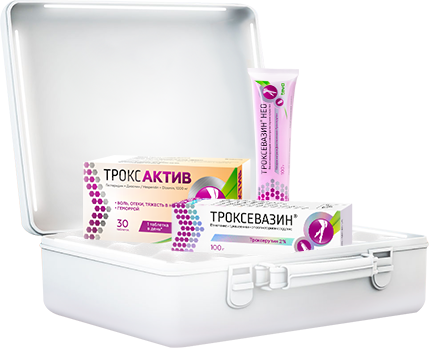
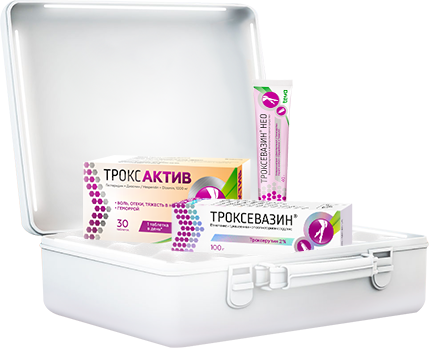
fix: pack edits #3

Changed region(s): [[0.5758, 0.2011, 0.697, 0.5747]]

diff --git a/nuxt/pages/case-varikoz-lite.vue b/nuxt/pages/case-varikoz-lite.vue
@@ -98,7 +98,7 @@
             <img src="/img/case/stats.png" alt="" loading="lazy"/>
           </div>
           <div class="stats__right">
-            <h2 class="title-h1">Согласно исследованию,<sup>6</sup> 92% пациентов начинают лечение симптомов варикоза<sup>*</sup> с помощью наружных средств</h2>
+            <h2 class="title-h1">Согласно исследованию<sup>6</sup>, 92% пациентов начинают лечение симптомов варикоза<sup>*</sup> с помощью наружных средств</h2>
             <p>Бороться с варикозом помогут средства бренда Троксевазин<sup>®</sup>, который на протяжении более 40 лет<sup>3</sup> помогает россиянам справляться с варикозом<sup>*</sup>.</p>
           </div>
         </div>
@@ -123,7 +123,7 @@
             </div>
             <div class="others__item">
               <h2 class="title-h1">Троксевазин<sup>®</sup> <br> НЕО гель</h2>
-              <img src="/img/product/other-gel-1-40.png" alt="" loading="lazy"/>
+              <img src="/img/product/other-gel-neo.png" alt="" loading="lazy"/>
               <p><strong class="others-violet">Усиленная<sup>**</sup> формула с тройным действием<sup>***</sup> против симптомов варикоза<sup>*</sup></strong><br> Способствует укреплению вен, уменьшению воспаления и снятию отека при варикозе<sup>5</sup>
               </p>
               <div class="others__btns">
@@ -159,7 +159,7 @@
               <swiper-slide>
                 <div class="others__item">
                   <h2 class="title-h1">Троксевазин<sup>®</sup> <br> НЕО гель</h2>
-                  <img src="/img/product/other-gel-1-40.png" alt="" loading="lazy"/>
+                  <img src="/img/product/other-gel-neo.png" alt="" loading="lazy"/>
                   <p><strong class="others-violet">Усиленная<sup>**</sup> формула с тройным действием<sup>***</sup> против симптомов варикоза<sup>*</sup></strong><br> Способствует укреплению вен, уменьшению воспаления и снятию отека при варикозе<sup>5</sup>
                   </p>
                   <div class="others__btns">

diff --git a/nuxt/pages/troxactive.vue b/nuxt/pages/troxactive.vue
@@ -266,7 +266,7 @@
           <h2 class="title-h1" style="max-width: 928px">Линейка Троксевазин<sup>®</sup> – комплексный подход для воздействия на симптомы варикоза<sup>*</sup> не только изнутри, но и снаружи</h2>
           <div class="others__list">
             <div class="others__item swiper-gel-1">
-              <img src="/img/product/other-gel-1-40.png" alt="" loading="lazy"/>
+              <img src="/img/product/other-gel-neo.png" alt="" loading="lazy"/>
               <p>
                 <strong class="others-violet">Узнайте больше <br> о Троксевазин<sup>®</sup> Нео —</strong><br> гель с усиленной<sup>***</sup> трехкомпонентной формулой<sup>6</sup>
               </p>
@@ -294,7 +294,7 @@
             >
               <swiper-slide>
                 <div class="others__item">
-                  <img src="/img/product/other-gel-1-40.png" alt="" loading="lazy"/>
+                  <img src="/img/product/other-gel-neo.png" alt="" loading="lazy"/>
                   <p>
                     <strong class="others-violet">Узнайте больше <br> о Троксевазин<sup>®</sup> Нео —</strong><br> гель с усиленной<sup>***</sup> трехкомпонентной формулой<sup>6</sup>
                   </p>

diff --git a/nuxt/pages/case-varikoz-hard.vue b/nuxt/pages/case-varikoz-hard.vue
@@ -119,7 +119,7 @@
           <div class="others__list">
             <div class="others__item swiper-gel-1">
               <h2 class="title-h1">Троксевазин<sup>®</sup> <br> НЕО гель</h2>
-              <img src="/img/product/other-gel-1-40.png" alt="" loading="lazy"/>
+              <img src="/img/product/other-gel-neo.png" alt="" loading="lazy"/>
               <p><strong class="others-violet">Инновация в линейке Троксевазин<sup>®</sup> — </strong>
                 Троксевазин<sup>®</sup> Нео с усиленной<sup>**</sup> трехкомпонентной формулой<sup>2</sup></p>
               <div class="others__btns">
@@ -153,7 +153,7 @@
               <swiper-slide>
                 <div class="others__item">
                   <h2 class="title-h1">Троксевазин<sup>®</sup> <br> НЕО гель</h2>
-                  <img src="/img/product/other-gel-1-40.png" alt="" loading="lazy"/>
+                  <img src="/img/product/other-gel-neo.png" alt="" loading="lazy"/>
                   <p><strong class="others-violet">Инновация в линейке Троксевазин<sup>®</sup> — </strong>Троксевазин<sup>®</sup> Нео с усиленной<sup>**</sup> трехкомпонентной формулой<sup>2</sup>
                   </p>
                   <div class="others__btns">

diff --git a/nuxt/pages/case-varikoz-middle.vue b/nuxt/pages/case-varikoz-middle.vue
@@ -118,7 +118,7 @@
           <div class="others__list">
             <div class="others__item">
               <h2 class="title-h1">Троксевазин<sup>®</sup> <br> НЕО гель</h2>
-              <img src="/img/product/other-gel-1-40.png" alt="" loading="lazy"/>
+              <img src="/img/product/other-gel-neo.png" alt="" loading="lazy"/>
               <p><strong class="others-violet">Инновация в линейке Троксевазин<sup>®</sup> — </strong>Троксевазин<sup>®</sup> Нео с усиленной<sup>**</sup> трехкомпонентной формулой<sup>3</sup>
               </p>
               <div class="others__btns">
@@ -152,7 +152,7 @@
               <swiper-slide>
                 <div class="others__item">
                   <h2 class="title-h1">Троксевазин<sup>®</sup> <br> НЕО гель</h2>
-                  <img src="/img/product/other-gel-1-40.png" alt="" loading="lazy"/>
+                  <img src="/img/product/other-gel-neo.png" alt="" loading="lazy"/>
                   <p><strong class="others-violet">Инновация в линейке Троксевазин<sup>®</sup> — </strong>Троксевазин<sup>®</sup> Нео с усиленной<sup>**</sup> трехкомпонентной формулой<sup>3</sup>
                   </p>
                   <div class="others__btns">

diff --git a/nuxt/pages/gel.vue b/nuxt/pages/gel.vue
@@ -186,7 +186,7 @@
           <h2 class="title-h1">Другие продукты линейки <br>Троксевазин<sup>®</sup></h2>
           <div class="others__list">
             <div class="others__item">
-              <img src="/img/product/other-gel-1-40.png" alt="" loading="lazy"/>
+              <img src="/img/product/other-gel-neo.png" alt="" loading="lazy"/>
               <p><strong class="others-violet">Инновация в линейке Троксевазин<sup>®</sup> —</strong>Троксевазин<sup>®</sup> Нео с усиленной<sup>5</sup> трехкомпонентной формулой<sup>6</sup>
               </p>
               <NuxtLink to="/neo">
@@ -212,7 +212,7 @@
             >
               <swiper-slide>
                 <div class="others__item">
-                  <img src="/img/product/other-gel-1-40.png" alt="" loading="lazy"/>
+                  <img src="/img/product/other-gel-neo.png" alt="" loading="lazy"/>
                   <p><strong class="others-violet">Инновация в линейке Троксевазин<sup>®</sup> —</strong>Троксевазин<sup>®</sup> Нео с усиленной<sup>5</sup> трехкомпонентной формулой<sup>6</sup>
                   </p>
                   <NuxtLink to="/neo">

diff --git a/nuxt/pages/capsules.vue b/nuxt/pages/capsules.vue
@@ -197,7 +197,7 @@
               </NuxtLink>
             </div>
             <div class="others__item swiper-gel-1"> 
-              <img src="/img/product/other-gel-1-40.png" alt="" loading="lazy"/>
+              <img src="/img/product/other-gel-neo.png" alt="" loading="lazy"/>
               <p><strong class="others-violet">Узнайте больше о<br>Троксевазин<sup>®</sup> НЕО —</strong><br> гель с усиленной<sup>***</sup> трехкомпонентной формулой<sup>6</sup>
               </p>
               <NuxtLink to="/neo">
@@ -225,7 +225,7 @@
               </swiper-slide>
               <swiper-slide>
                 <div class="others__item">
-                  <img src="/img/product/other-gel-1-40.png" alt="" loading="lazy"/>
+                  <img src="/img/product/other-gel-neo.png" alt="" loading="lazy"/>
                   <p><strong class="others-violet">Узнайте больше о<br>Троксевазин<sup>®</sup> НЕО —</strong><br> гель с усиленной<sup>***</sup> трехкомпонентной формулой<sup>6</sup>
                   </p>
                   <NuxtLink to="/neo">

diff --git a/nuxt/components/Cart.vue b/nuxt/components/Cart.vue
@@ -45,6 +45,7 @@ export default {
 
 @media(max-width: 600px) {
 	.cart {
+		top: 50vh;
 		right: 14px;
 		padding: 17px 14px 13px 11px
 	}
